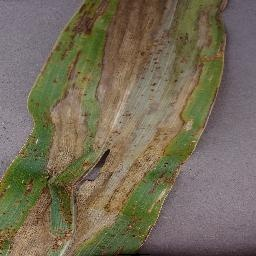
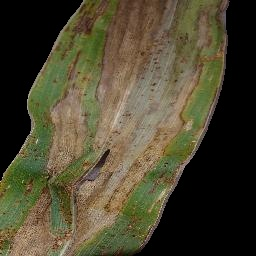
Regenerate Fig 4 segmentation images using properly trained U-Net (COCO annotations)

diff --git a/experiment/gen_seg_fig.py b/experiment/gen_seg_fig.py
@@ -1,21 +1,44 @@
+"""Generate segmentation comparison figure using the properly trained U-Net model."""
 import cv2, numpy as np, os, sys
-sys.path.insert(0, os.path.dirname(os.path.dirname(__file__)))
 os.environ['TF_CPP_MIN_LOG_LEVEL'] = '3'
 
 import tensorflow as tf
-from keras import layers, Model, Input
 import warnings; warnings.filterwarnings('ignore')
 
 IMG_SIZE = 256
 outdir = "images/seg_results"
 os.makedirs(outdir, exist_ok=True)
 
+# Use the same sample leaf as before (Northern Leaf Blight)
 sample_path = os.path.expanduser(
     "~/.keras/datasets/plantvillage_corn/Northern_Leaf_Blight/"
     "005318c8-a5fa-4420-843b-23bdda7322c2___RS_NLB 3853 copy.jpg")
 img = cv2.imread(sample_path)
 img = cv2.resize(img, (IMG_SIZE, IMG_SIZE))
+h, w = img.shape[:2]
 cv2.imwrite(os.path.join(outdir, "a_original.jpg"), img)
+
+# --- K-Means segmentation ---
+def kmeans_segment(img_bgr, k=3):
+    pixel_vals = img_bgr.reshape((-1, 3)).astype(np.float32)
+    criteria = (cv2.TERM_CRITERIA_EPS + cv2.TERM_CRITERIA_MAX_ITER, 100, 0.2)
+    _, labels, centers = cv2.kmeans(pixel_vals, k, None, criteria, 10, cv2.KMEANS_RANDOM_CENTERS)
+    centers = centers.astype(np.uint8)
+    green_ratio = np.array([c[1] / max(c[0] + c[2], 1) for c in centers])
+    leaf_cluster = np.argmax(green_ratio)
+    mask = (labels.reshape(img.shape[:2]) == leaf_cluster).astype(np.uint8) * 255
+    kernel = np.ones((5, 5), np.uint8)
+    mask = cv2.morphologyEx(mask, cv2.MORPH_CLOSE, kernel)
+    mask = cv2.morphologyEx(mask, cv2.MORPH_OPEN, kernel)
+    contours, _ = cv2.findContours(mask, cv2.RETR_EXTERNAL, cv2.CHAIN_APPROX_SIMPLE)
+    clean_mask = np.zeros_like(mask)
+    if contours:
+        largest = max(contours, key=cv2.contourArea)
+        cv2.drawContours(clean_mask, [largest], -1, 255, -1)
+    return cv2.bitwise_and(img_bgr, img_bgr, mask=clean_mask)
+
+kmeans_out = kmeans_segment(img)
+cv2.imwrite(os.path.join(outdir, "c_kmeans.jpg"), kmeans_out)
 
 # --- Otsu thresholding ---
 def otsu_segment(img_bgr):
@@ -24,7 +47,7 @@ def otsu_segment(img_bgr):
     gray = cv2.cvtColor(img_bgr, cv2.COLOR_BGR2GRAY)
     _, otsu = cv2.threshold(gray, 0, 255, cv2.THRESH_BINARY + cv2.THRESH_OTSU)
     combined = cv2.bitwise_or(green_mask, otsu)
-    kernel = np.ones((5,5), np.uint8)
+    kernel = np.ones((5, 5), np.uint8)
     combined = cv2.morphologyEx(combined, cv2.MORPH_CLOSE, kernel)
     combined = cv2.morphologyEx(combined, cv2.MORPH_OPEN, kernel)
     contours, _ = cv2.findContours(combined, cv2.RETR_EXTERNAL, cv2.CHAIN_APPROX_SIMPLE)
@@ -38,56 +61,15 @@ otsu_mask = otsu_segment(img)
 otsu_out = cv2.bitwise_and(img, img, mask=otsu_mask)
 cv2.imwrite(os.path.join(outdir, "b_otsu.jpg"), otsu_out)
 
-# --- K-Means ---
-def kmeans_segment(img_bgr, k=3):
-    pixel_vals = img_bgr.reshape((-1, 3)).astype(np.float32)
-    criteria = (cv2.TERM_CRITERIA_EPS + cv2.TERM_CRITERIA_MAX_ITER, 100, 0.2)
-    _, labels, centers = cv2.kmeans(pixel_vals, k, None, criteria, 10, cv2.KMEANS_RANDOM_CENTERS)
-    centers = centers.astype(np.uint8)
-    green_ratio = np.array([c[1] / max(c[0]+c[2], 1) for c in centers])
-    leaf_cluster = np.argmax(green_ratio)
-    mask = (labels.reshape(img.shape[:2]) == leaf_cluster).astype(np.uint8) * 255
-    kernel = np.ones((5,5), np.uint8)
-    mask = cv2.morphologyEx(mask, cv2.MORPH_CLOSE, kernel)
-    mask = cv2.morphologyEx(mask, cv2.MORPH_OPEN, kernel)
-    contours, _ = cv2.findContours(mask, cv2.RETR_EXTERNAL, cv2.CHAIN_APPROX_SIMPLE)
-    clean_mask = np.zeros_like(mask)
-    if contours:
-        largest = max(contours, key=cv2.contourArea)
-        cv2.drawContours(clean_mask, [largest], -1, 255, -1)
-    return cv2.bitwise_and(img_bgr, img_bgr, mask=clean_mask)
+# --- U-Net (properly trained on COCO annotations) ---
+print("Loading trained U-Net model...")
+unet = tf.keras.models.load_model("experiment/models/unet_segmentation.keras")
 
-kmeans_out = kmeans_segment(img)
-cv2.imwrite(os.path.join(outdir, "c_kmeans.jpg"), kmeans_out)
-
-# --- U-Net ---
-def build_unet():
-    inputs = Input((IMG_SIZE, IMG_SIZE, 3))
-    def conv_block(x, filters):
-        x = layers.Conv2D(filters, 3, padding='same', activation='relu')(x)
-        x = layers.Conv2D(filters, 3, padding='same', activation='relu')(x)
-        return x
-    c1 = conv_block(inputs, 32); p1 = layers.MaxPooling2D(2)(c1)
-    c2 = conv_block(p1, 64); p2 = layers.MaxPooling2D(2)(c2)
-    c3 = conv_block(p2, 128); p3 = layers.MaxPooling2D(2)(c3)
-    b = conv_block(p3, 256)
-    u1 = layers.UpSampling2D(2)(b); u1 = layers.Concatenate()([u1, c3]); c4 = conv_block(u1, 128)
-    u2 = layers.UpSampling2D(2)(c4); u2 = layers.Concatenate()([u2, c2]); c5 = conv_block(u2, 64)
-    u3 = layers.UpSampling2D(2)(c5); u3 = layers.Concatenate()([u3, c1]); c6 = conv_block(u3, 32)
-    outputs = layers.Conv2D(1, 1, activation='sigmoid')(c6)
-    return Model(inputs, outputs)
-
-print("Training U-Net for segmentation demo...")
-unet = build_unet()
-unet.compile(optimizer='adam', loss='binary_crossentropy')
 img_norm = img.astype(np.float32) / 255.0
-mask_norm = (otsu_mask / 255.0).reshape(1, IMG_SIZE, IMG_SIZE, 1)
-X_tr = np.stack([img_norm]*4, axis=0)
-y_tr = np.stack([mask_norm[0]]*4, axis=0)
-unet.fit(X_tr, y_tr, batch_size=2, epochs=20, verbose=0)
 pred_mask = unet.predict(np.expand_dims(img_norm, 0), verbose=0)
 pred_mask = (pred_mask > 0.5).astype(np.uint8).squeeze() * 255
 unet_out = cv2.bitwise_and(img, img, mask=pred_mask)
 cv2.imwrite(os.path.join(outdir, "d_unet.jpg"), unet_out)
 
 print(f"Done: {os.listdir(outdir)}")
+print("U-Net segmentation mask mean:", pred_mask.mean())
